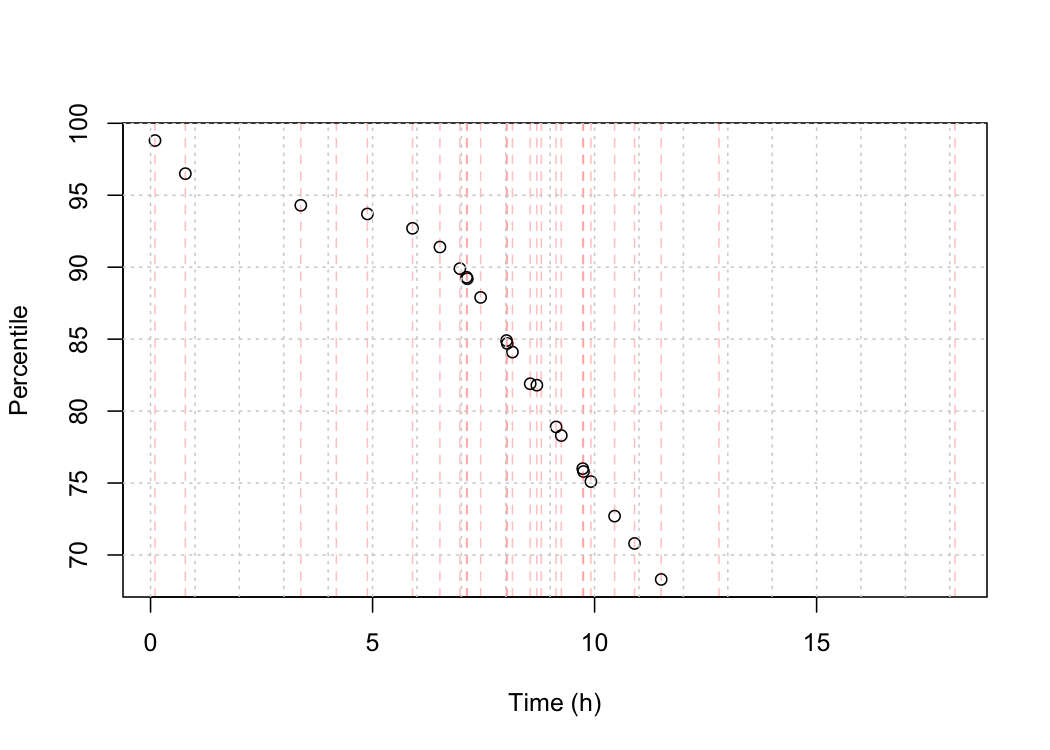
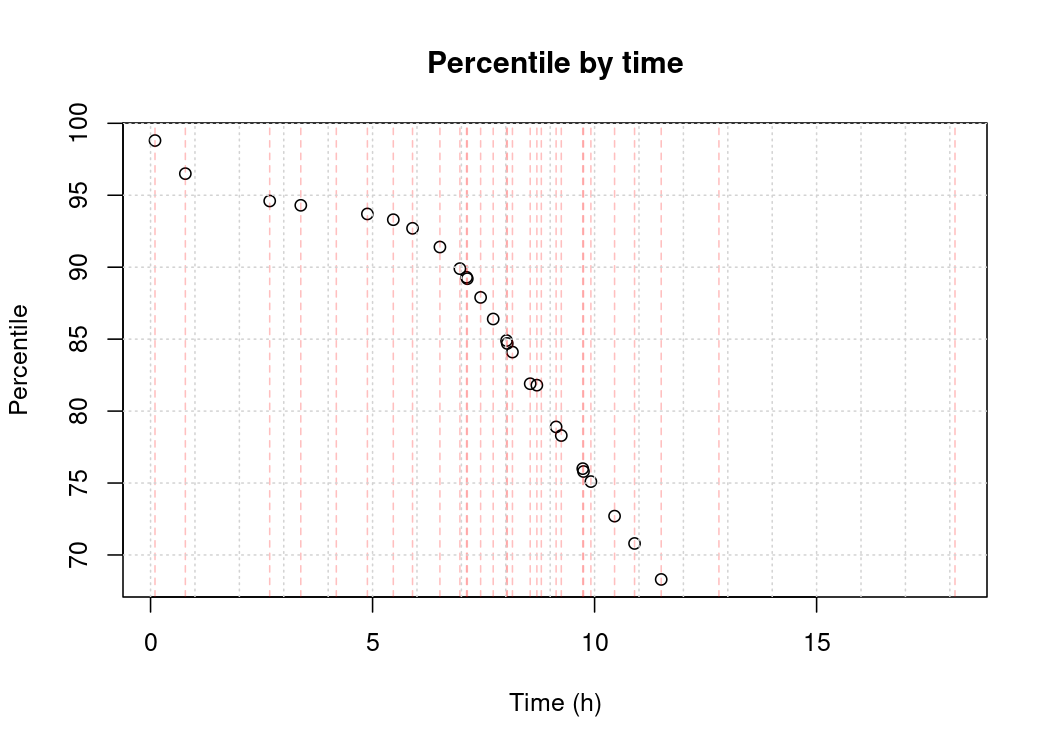
rate plot

diff --git a/README.md b/README.md
@@ -3,3 +3,4 @@ Finishing time and percentile
 
 ## Summary
 ![percentile plot](perc.png)
+![rate plot](rate.png)
